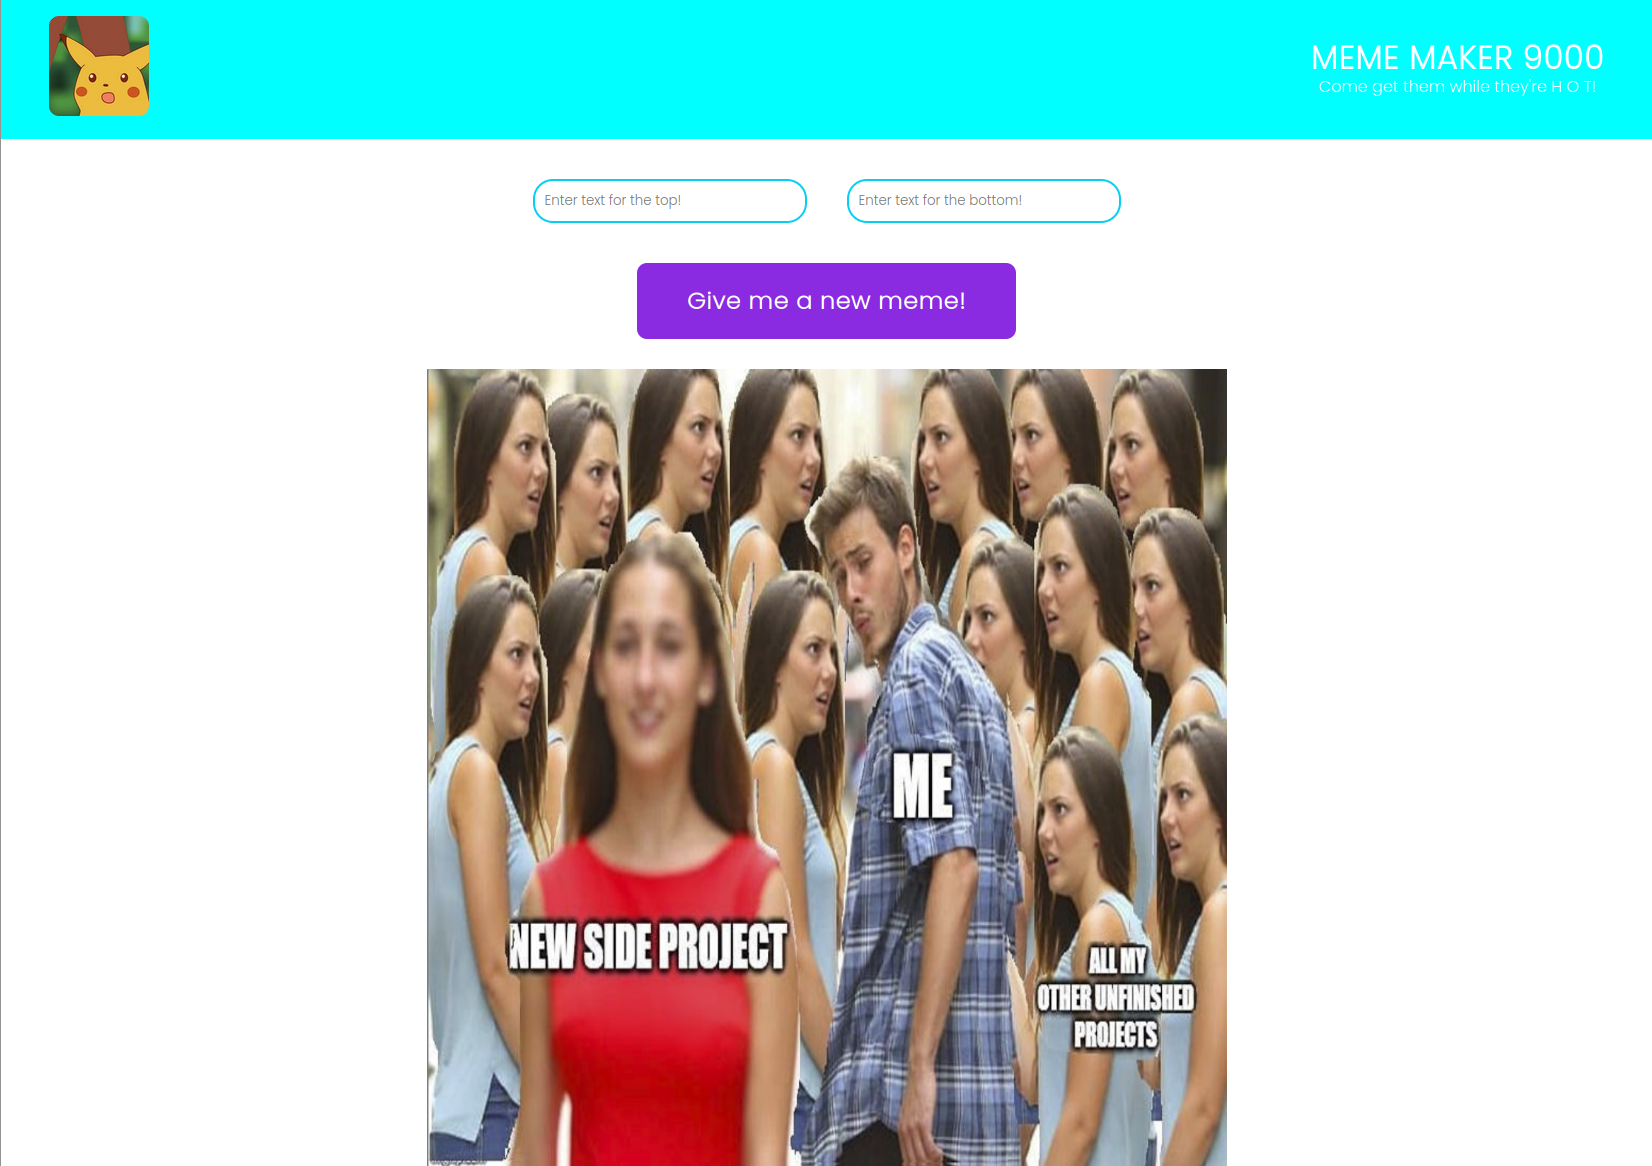
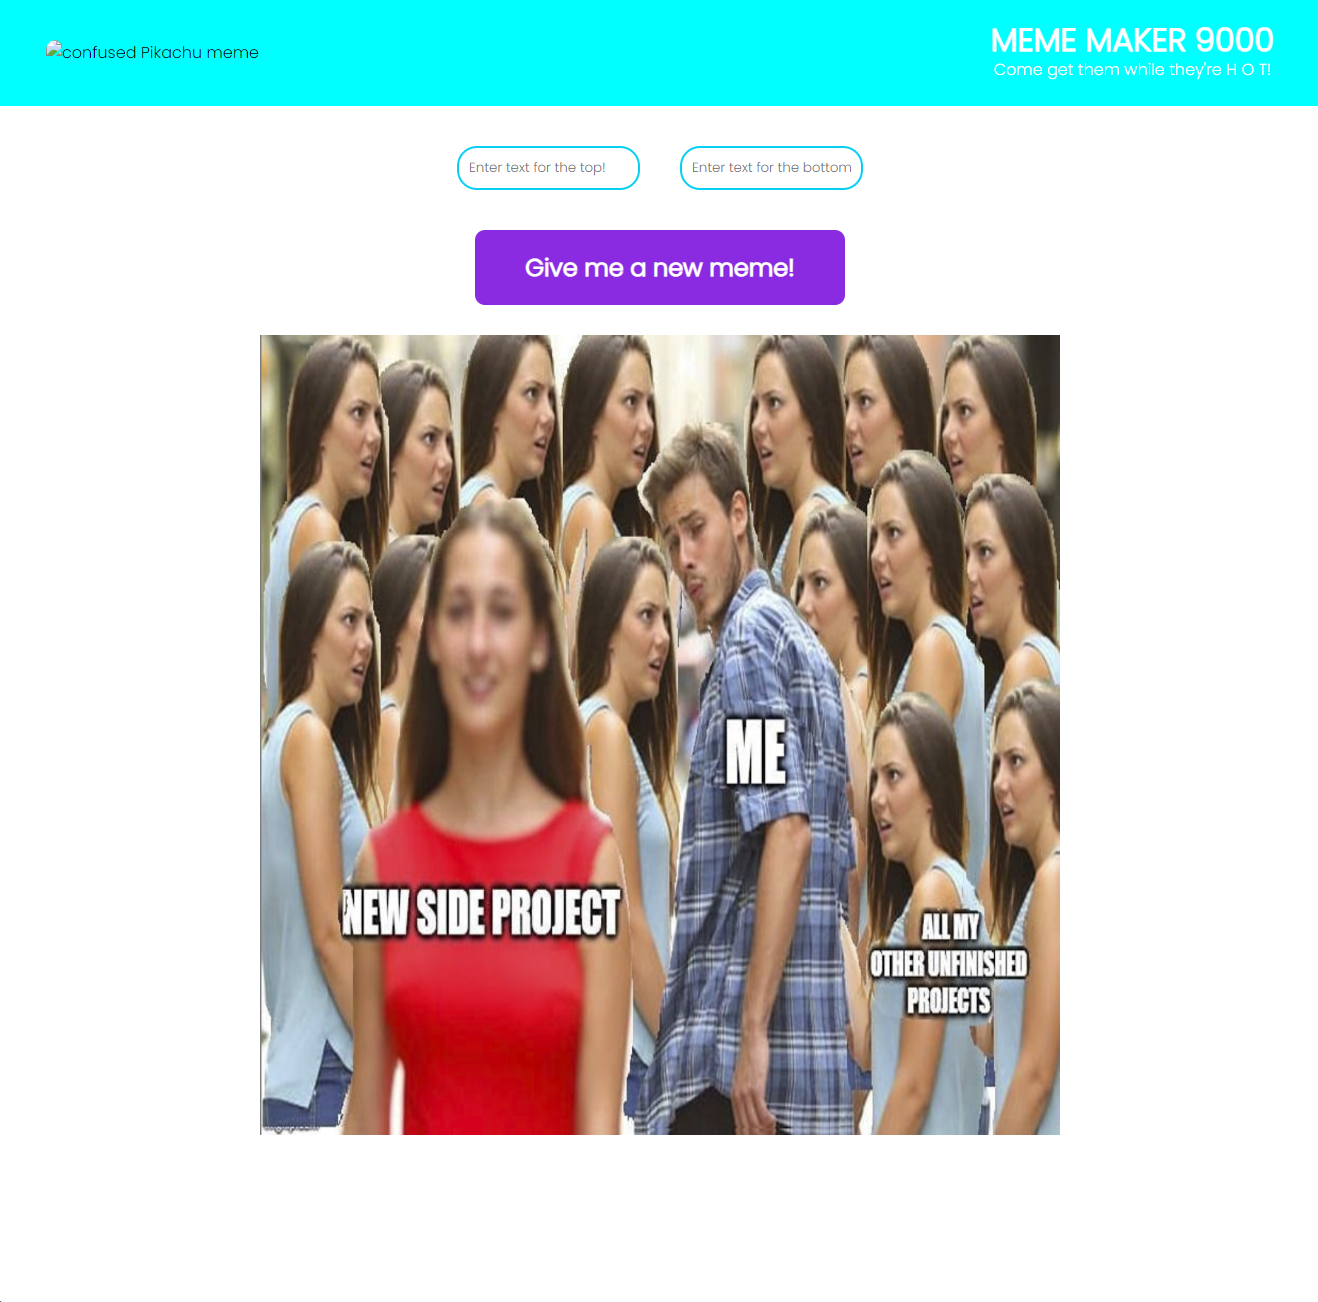
added more projects and screenshots. Changed width settings for larger screens,

diff --git a/src/components/Portfolio.jsx b/src/components/Portfolio.jsx
@@ -15,6 +15,24 @@ function Portfolio() {
     //an array containing a list of featured projects to be displayed.
     const projectList = [
         {
+            title: 'Dost', 
+            subtitle: 'Full stack social media app',
+            links: 
+            {
+                github: 'https://github.com/DustyDogCodex/Dost', 
+                live: 'https://dost-production.up.railway.app/'
+            }
+        },
+        {
+            title: 'My Portfolio', 
+            subtitle: 'My fully responsive custom portfolio website',
+            links: 
+            {
+                github: 'https://github.com/DustyDogCodex/personal-portfolio', 
+                live: 'https://dustydogcodex.github.io/personal-portfolio/'
+            }
+        },
+        {
             title: 'Tenzies', 
             subtitle: 'Roll the same 10 digits with 10 different dice to win!',
             links: 
@@ -30,6 +48,15 @@ function Portfolio() {
             {
                 github: 'https://github.com/DustyDogCodex/Meme-Maker-9000', 
                 live: 'https://dustydogcodex.github.io/Meme-Maker-9000/'
+            }
+        },
+        {
+            title: 'Hedgehog HedgeFund', 
+            subtitle: 'React+Bootstrap website for a fictional company',
+            links: 
+            {
+                github: 'https://github.com/DustyDogCodex/HedgeHog-HedgeFund', 
+                live: 'https://dustydogcodex.github.io/HedgeHog-HedgeFund/'
             }
         },
         {

diff --git a/src/App.jsx b/src/App.jsx
@@ -27,7 +27,7 @@ function App() {
       />
 
       {/* sidebar navigation dots */}
-      <div className="w-5/6 lg:w-4/6 mx-auto md:h-full">
+      <div className="w-5/6 mx-auto md:h-full">
         {aboveMediumScreens && (
           <SidebarNavDots 
             currentPage={currentPage}
@@ -45,7 +45,7 @@ function App() {
 
       <RainbowLineBreak/>
       
-      <div className="md:w-5/6 lg:w-3/5 w-full mx-auto md:h-full">
+      <div className="md:w-5/6 w-full mx-auto md:h-full">
         <motion.div
           margin="0 0 -200px 0"
           amount="all"
@@ -69,7 +69,7 @@ function App() {
       
       <RainbowLineBreak/>
       
-      <div className="w-5/6 lg:w-3/5 mx-auto">
+      <div className="w-5/6 mx-auto">
         <motion.div
           margin="0 0 -200px 0"
           amount="all"

diff --git a/src/components/Navbar.jsx b/src/components/Navbar.jsx
@@ -45,7 +45,7 @@ function Navbar({ currentPage, setCurrentPage }) {
 
     return(
         <nav className={`${navBg} z-40 w-full fixed top-0 py-5`}>
-            <div className="flex items-center justify-between m-auto w-5/6 lg:w-4/6">
+            <div className="flex items-center justify-between m-auto w-5/6">
                 <h3 className="font-permanentMarker text-5xl font-bold text-amber-400">VM</h3>
 
                 {/* conditionally rendering navbar dictated by screen size */}

diff --git a/src/components/Project.jsx b/src/components/Project.jsx
@@ -55,7 +55,7 @@ function Project({ title, subtitle, links }) {
 
             {/* project screenshot */}
             <img 
-                className="w-[400px] max-h-[400px]"
+                className="w-[400px] max-h-[400px] "
                 src={`./images/${projectTitle}.png`}
                 alt={`${projectTitle} screenshot`} 
             />
